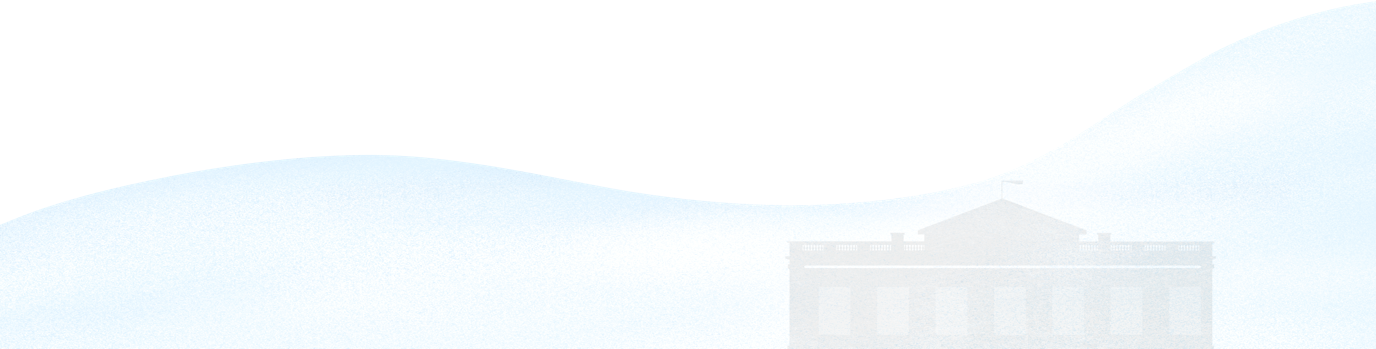
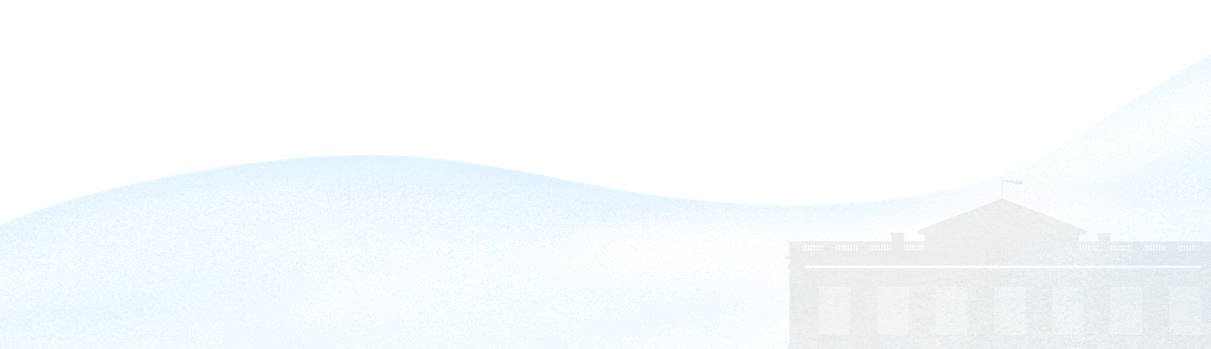
contract opps styles

diff --git a/src/app/landing/opportunities-landing/opportunities-landing.component.html b/src/app/landing/opportunities-landing/opportunities-landing.component.html
@@ -1,6 +1,6 @@
 <div class="grid-container">
   <!-- header & search bar -->
-  <div class="grid-row contract-opportunities padding-x-9">
+  <div class="grid-row contract-opportunities tablet-lg:padding-x-9">
     <div class="grid-col-fill margin-x-2 text-base">
       <h1 class="font-sans-xl margin-top-3">Contract Opportunities</h1>
       <p class="font-sans-md">This site is the official source of contracting opportunities from the federal government. Anyone interested in doing business with the government can use this system to research active opportunities.</p>
@@ -19,11 +19,11 @@
     </div>
   </div>
   <!-- accordion & links -->
-  <div class="grid-row contract-opps padding-x-9">
+  <div class="grid-row contract-opps tablet-lg:padding-x-9">
 
-    <div class="usa-accordion margin-4">
+    <div class="usa-accordion tablet-lg:margin-4 margin-y-2">
       <h3 class="usa-accordion__heading">
-        <button class="usa-accordion__button usa-accordion__block" aria-expanded="true" aria-controls="a1">
+        <button class="usa-accordion__button usa-accordion__block border border-base-light" aria-expanded="false" aria-controls="a1">
           How to find opportunities to do business with the government
         </button>
       </h3>
@@ -94,7 +94,7 @@
         </div>
       </div>
       <h3 class="usa-accordion__heading">
-        <button class="usa-accordion__button usa-accordion__block" aria-expanded="true" aria-controls="a2">
+        <button class="usa-accordion__button usa-accordion__block border border-base-light" aria-expanded="false" aria-controls="a2">
           I am a federal employee working on contract opportunities
         </button>
       </h3>
@@ -146,7 +146,7 @@
   <!-- reports/data & user account sections -->
   <div class="grid-row">
     <!-- reports and data -->
-      <div class="tablet:grid-col margin-2 padding-bottom-2 display-flex flex-column border-solid border-base-light border-width-1px">
+      <div class="tablet:grid-col tablet:margin-2 margin-y-2 padding-bottom-2 display-flex flex-column border-solid border-base-light border-width-1px">
         <div class="padding-2" style="background-color: #eff6fb;">
           <h3 class="font-sans-lg margin-0"><a class="text-base-darker text-no-underline" [routerLink]="['news']">Reports and Data</a></h3>
         </div>
@@ -193,7 +193,7 @@
 
       </div>
     <!-- do I need a user account -->
-      <div class="tablet:grid-col margin-2 padding-bottom-2 display-flex flex-column border-solid border-base-light border-width-1px">
+      <div class="tablet:grid-col tablet:margin-2 margin-y-2 padding-bottom-2 display-flex flex-column border-solid border-base-light border-width-1px">
         <div class="padding-2" style="background-color: #eff6fb;">
           <h3 class="font-sans-lg margin-0"><a class="text-base-darker text-no-underline" [routerLink]="['news']">Do I need a user account?</a></h3>
         </div>

diff --git a/src/app/landing/opportunities-landing/opportunities-landing.component.scss b/src/app/landing/opportunities-landing/opportunities-landing.component.scss
@@ -1,8 +1,7 @@
 .contract-opportunities {
-  background: url("/assets/img/contract-opps.png") no-repeat center;
+  background: url("/assets/img/contract-opps.png") no-repeat right bottom;
   background-size: cover;
   padding-bottom: 35px;
-  // height: 400px;
 }
 
 .sds-search {
@@ -30,9 +29,9 @@
 .usa-accordion__heading{
   margin-top: 0;
 .usa-accordion__button.usa-accordion__block {
-  border: solid 1px gray;
+  padding-right: 50px;
   color: black;
-  font-size: 24px;
+  font-size: 1.25rem;
 }
 button.usa-accordion__block[aria-expanded=true] {
   background-color: white !important;
